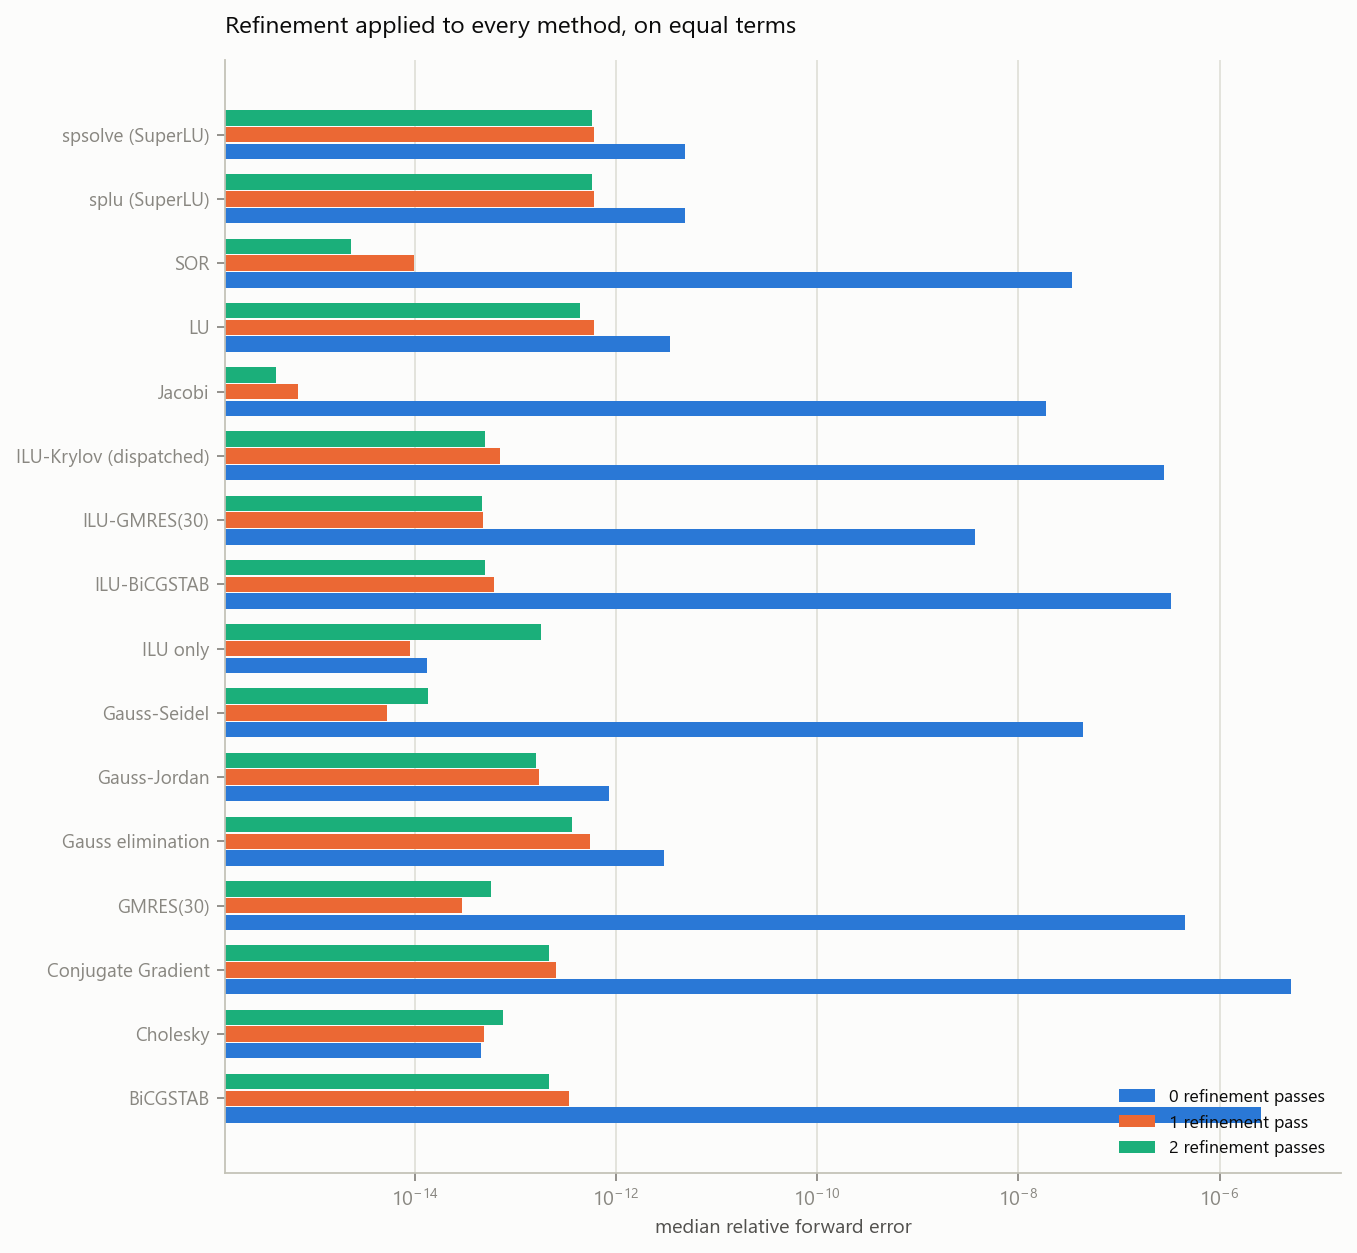
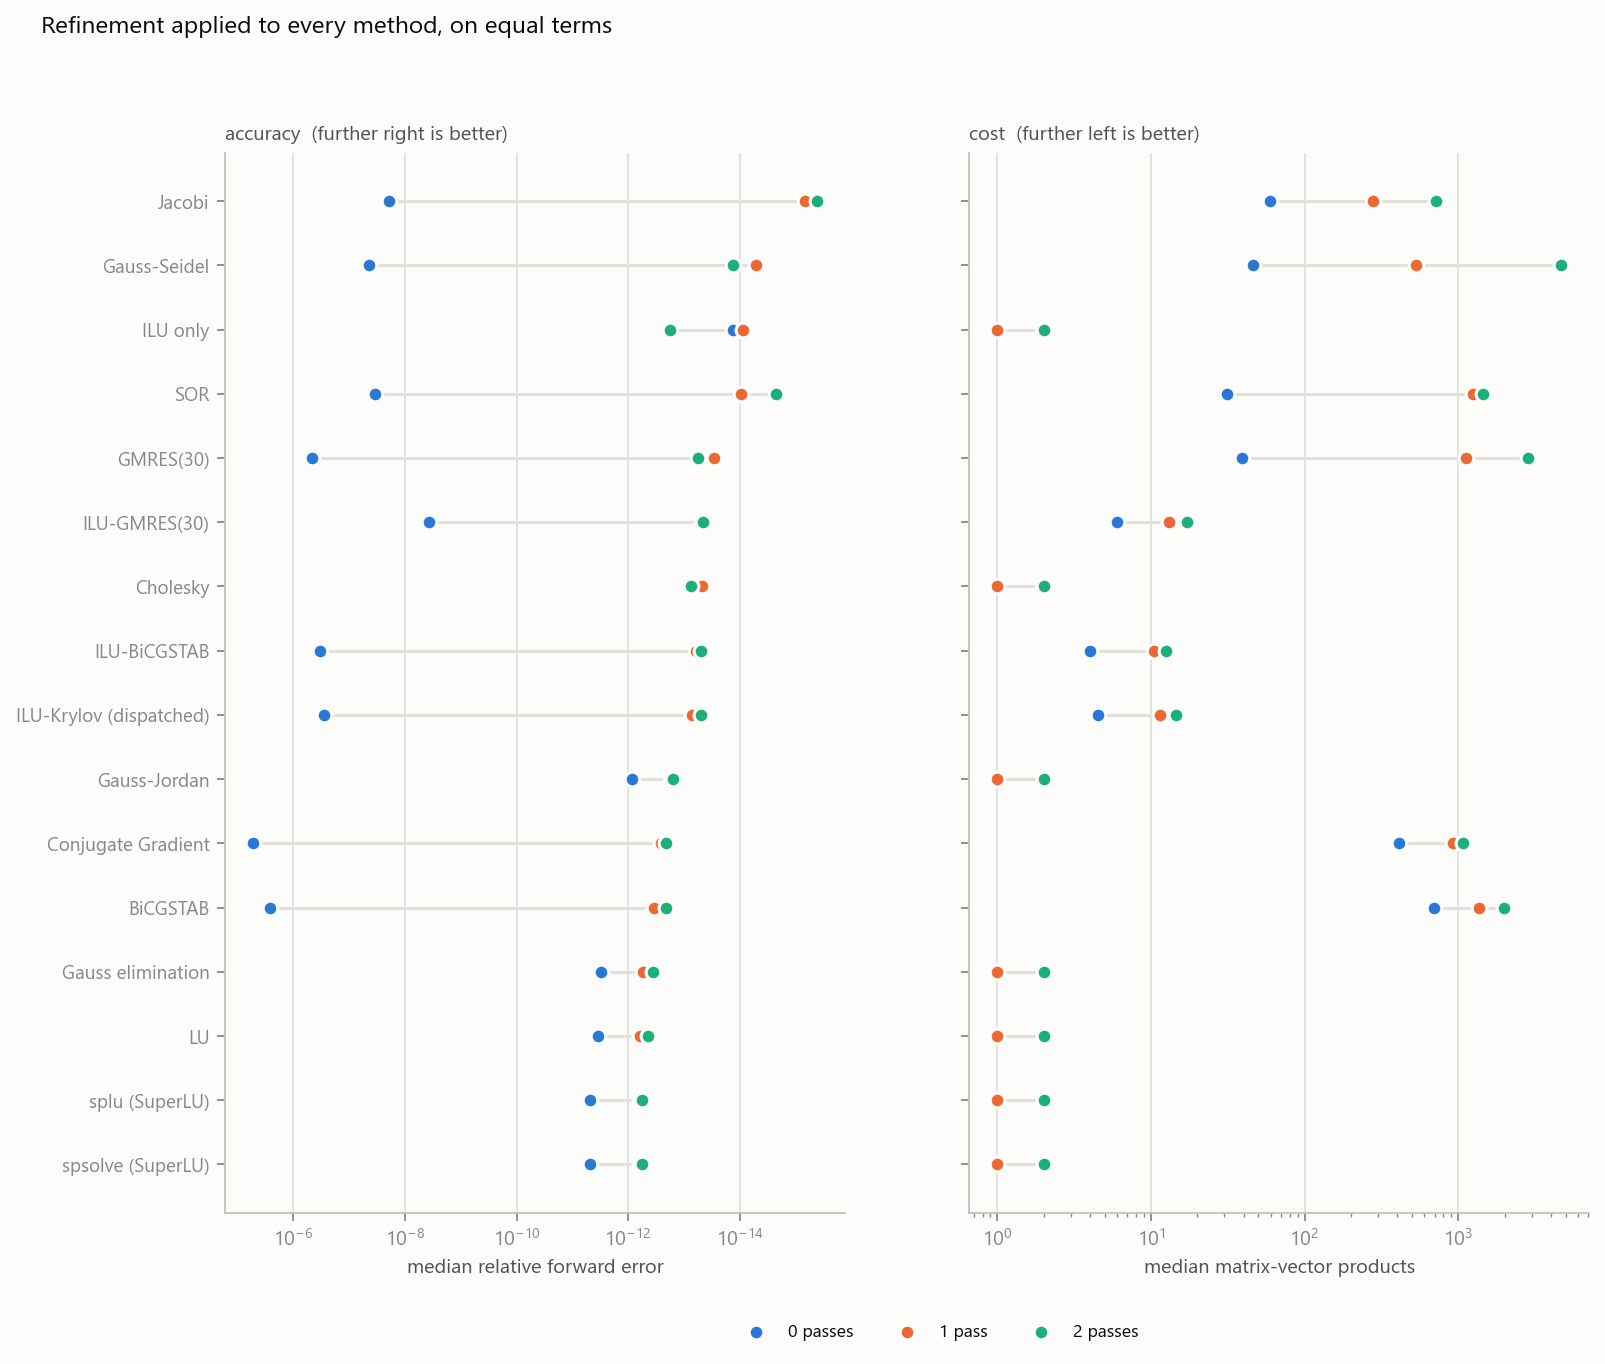
Replace the refinement bars with dots, and plot cost beside accuracy
A bar encodes its value by length measured from zero. A log axis has no zero, so the bar
lengths were being set by wherever the axis happened to be cut rather than by the
numbers -- and every one of the sixteen groups sat close enough to its neighbours that it
was not clear which three bars belonged together. Position reads correctly on a log
scale; length does not.

Two panels now, sharing the method axis: median forward error on the left with the
direction of improvement stated, median matrix-vector products on the right. That puts
the whole trade-off in one view instead of leaving cost to a sentence somewhere else.

What it shows: give every method the same single refinement pass and Jacobi lands
furthest right -- the most accurate method in the benchmark, ahead of the dispatched
ILU-Krylov the proposal called novel. The right panel is why that is not the end of the
story: Jacobi needs about 279 matrix-vector products where ILU-Krylov needs 12. The
direct solvers barely move in either panel, which is expected -- they are not stopped
early, so there is no accuracy left on the table for a correction pass to recover, and
ILU only actually gets worse at two passes.

diff --git a/tools/make_figures.py b/tools/make_figures.py
@@ -464,23 +464,49 @@ def fig_refinement(study):
     ok = study[study.status == "solved"]
     if ok.empty:
         return
-    piv = ok.pivot_table(index="method", columns="refinement_passes",
+    err = ok.pivot_table(index="method", columns="refinement_passes",
                          values="error_rel", aggfunc="median").dropna(how="all")
-    if piv.empty:
+    cost = ok.pivot_table(index="method", columns="refinement_passes",
+                          values="matvecs", aggfunc="median").reindex(err.index)
+    if err.empty:
         return
-    cols = sorted(piv.columns)
-    fig, ax = plt.subplots(figsize=(9, 0.44 * len(piv) + 2.0))
-    y = np.arange(len(piv))
-    w = 0.26
-    for i, (c, colour) in enumerate(zip(cols, [C1, C2, C3])):
-        ax.barh(y + (i - (len(cols) - 1) / 2) * w, piv[c].values, height=w * 0.92,
-                color=colour, label=f"{c} refinement pass{'es' if c != 1 else ''}")
-    ax.set_xscale("log")
-    ax.set_yticks(y, piv.index, fontsize=8.5)
-    ax.set_xlabel("median relative forward error")
-    ax.set_title("Refinement applied to every method, on equal terms", loc="left", pad=12)
-    ax.legend(loc="lower right")
-    _hide_grid_x(ax)
+
+    # Dots, not bars. A bar encodes its value by length measured from zero, and a log
+    # axis has no zero -- so the bars' lengths were set by wherever the axis happened to
+    # be cut, not by the numbers. Position reads correctly on a log scale; length does
+    # not. The two panels put the trade-off side by side: refinement buys accuracy and
+    # is paid for in work.
+    cols = sorted(err.columns)
+    order = err[cols[1]].sort_values(ascending=False).index if len(cols) > 1 else err.index
+    err, cost = err.reindex(order), cost.reindex(order)
+
+    fig, axes = plt.subplots(1, 2, figsize=(11, 0.40 * len(err) + 2.2), sharey=True)
+    y = np.arange(len(err))
+    for ax, table, xlabel in ((axes[0], err, "median relative forward error"),
+                              (axes[1], cost, "median matrix-vector products")):
+        for yi, row in zip(y, table.itertuples(index=False)):
+            vals = [v for v in row if np.isfinite(v) and v > 0]
+            if len(vals) > 1:
+                ax.plot([min(vals), max(vals)], [yi, yi], color=GRID, lw=1.4, zorder=1,
+                        solid_capstyle="round")
+        for c, colour in zip(cols, [C1, C2, C3]):
+            v = table[c] if c in table else None
+            if v is None:
+                continue
+            m = np.isfinite(v) & (v > 0)
+            ax.scatter(v[m], y[m.values], s=44, color=colour, zorder=3,
+                       edgecolors=SURFACE, linewidths=1.4,
+                       label=f"{c} pass{'es' if c != 1 else ''}")
+        ax.set_xscale("log")
+        ax.set_xlabel(xlabel)
+        ax.grid(axis="y", visible=False)
+    axes[0].set_yticks(y, err.index, fontsize=8.5)
+    axes[0].invert_xaxis()          # better to the right in both panels
+    axes[0].set_title("accuracy  (further right is better)", fontsize=9, color=INK2, loc="left")
+    axes[1].set_title("cost  (further left is better)", fontsize=9, color=INK2, loc="left")
+    fig.suptitle("Refinement applied to every method, on equal terms",
+                 x=0.02, ha="left", fontsize=11, color=INK)
+    axes[1].legend(loc="upper center", bbox_to_anchor=(-0.05, -0.09), ncols=3)
     save(fig, "10_refinement_effect",
          "In the first sweep only one method received refinement, and that is "
          "where its accuracy advantage came from.")
